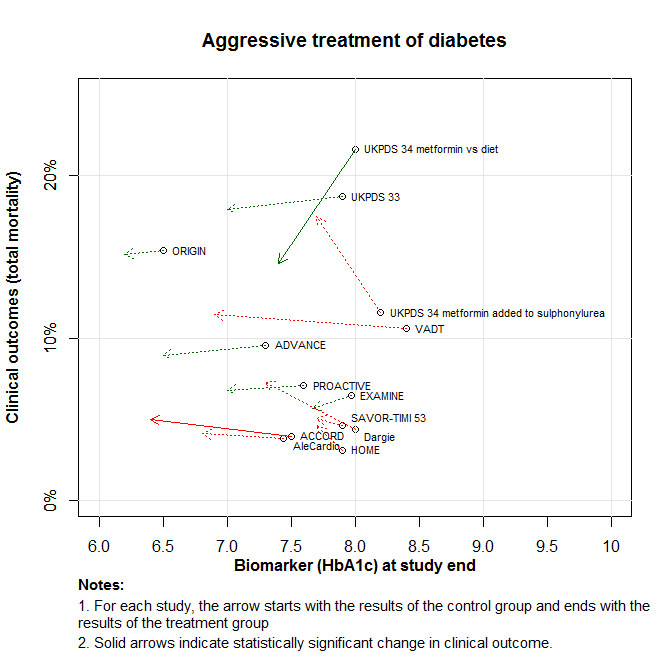
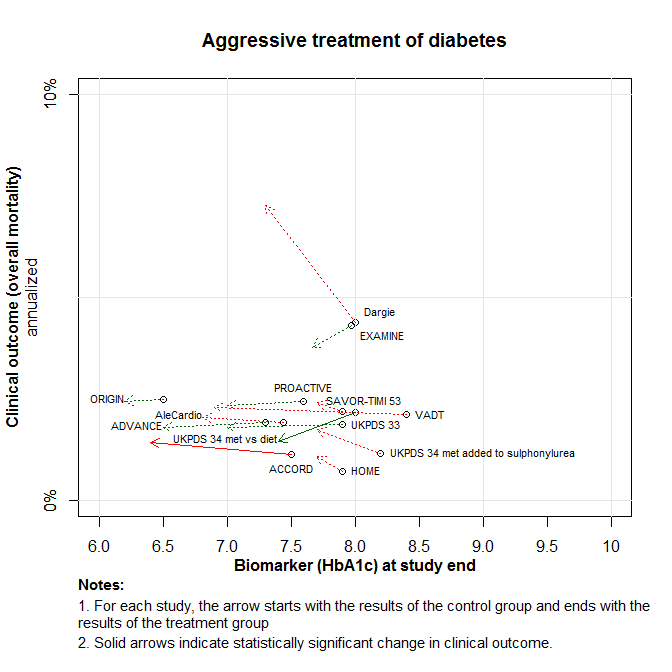
Updated with annualized outcomes

diff --git a/inst/www/arrows.html b/inst/www/arrows.html
@@ -70,7 +70,7 @@ http://code.google.com/p/jquery-csv/wiki/API -> instructions
 <div id="">&nbsp;</div>
 	<div><span style="font-weight:bold">Arrows Plot:</span> Under construction. See published example.(<a href="#21952453">1</a>). Updated plot is below</div> 
 	<div>&nbsp;</div>
-	<div>This plot suggests there is no relationship between mortality and lowering the HbA1c in type 2 diabetics unless the baseline risk of mortality is above 15%. However, the length of trials varies. A next step in developing this method is to annualize the clinical outcome to account for different durations of trials.</div>
+	<div>This plot suggests there is no relationship between mortality and lowering the HbA1c in type 2 diabetics.</div>
 	<img src="diabetes type 2 - arrows plot.png" alt="Arrows plot"/>
 	
 <h3>References</h3>
